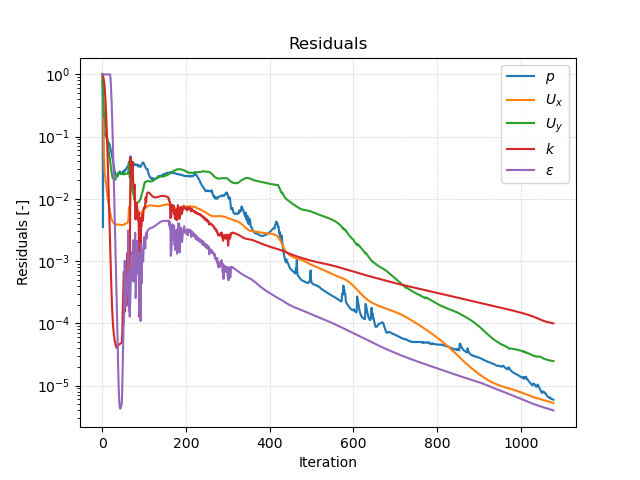
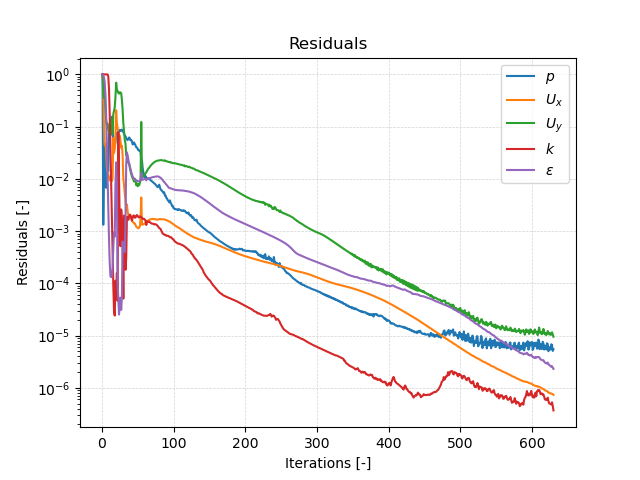
diffuser: solving updated

diff --git a/5_diffuser/2_solving.md b/5_diffuser/2_solving.md
@@ -10,60 +10,60 @@ nav_order: 2
 
 ## Starting the Solver
 
-In order to start the simulation, we have to execute corresponding the OpenFOAM application. As defined in the `controlDict`, the solver `simpleFoam` will be used, suitable for steady-state, incompressible, laminar or turbulent flows. This application can be started by typing the appropriate command in the terminal from within the case directory:
+
+In order to start the simulation, we have to execute the corresponding OpenFOAM application. As defined in the `controlDict`, the solver `incompressibleFluid` will be used, suitable for steady-state and transient, incompressible, laminar or turbulent flows. To start the solution process, execute the application `foamRun` in the terminal from within the case directory:
 
 ```bash
-simpleFoam
+foamRun
 ```
 
 The progress of the job is written to the terminal window. It tells the user the current iteration, the equations being solved, initial and final residuals for all fields and should look like follows:
 
 ```
-Time = 1023
+Time = 626s
 
-DILUPBiCG:  Solving for Ux, Initial residual = 6.82879e-06, Final residual = 2.36201e-08, No Iterations 3
-DILUPBiCG:  Solving for Uy, Initial residual = 3.19232e-05, Final residual = 2.11249e-06, No Iterations 2
-GAMG:  Solving for p, Initial residual = 1.09381e-05, Final residual = 8.00707e-07, No Iterations 2
-GAMG:  Solving for p, Initial residual = 8.18999e-07, Final residual = 8.18999e-07, No Iterations 0
-time step continuity errors : sum local = 1.09993e-08, global = -3.43088e-10, cumulative = 6.57178e-05
-DILUPBiCG:  Solving for epsilon, Initial residual = 5.30319e-06, Final residual = 2.07877e-07, No Iterations 1
-DILUPBiCG:  Solving for k, Initial residual = 0.000133256, Final residual = 7.49579e-06, No Iterations 1
-ExecutionTime = 56.32 s  ClockTime = 57 s
+DILUPBiCG:  Solving for Ux, Initial residual = 7.84788e-07, Final residual = 1.91123e-07, No Iterations 1
+DILUPBiCG:  Solving for Uy, Initial residual = 1.03153e-05, Final residual = 1.16383e-08, No Iterations 3
+GAMG:  Solving for p, Initial residual = 5.40664e-06, Final residual = 6.56563e-07, No Iterations 1
+time step continuity errors : sum local = 1.52435e-08, global = -3.94684e-10, cumulative = -3.20101e-05
+DILUPBiCG:  Solving for epsilon, Initial residual = 4.89335e-07, Final residual = 1.39649e-08, No Iterations 1
+DILUPBiCG:  Solving for k, Initial residual = 2.61077e-06, Final residual = 3.35381e-07, No Iterations 1
+ExecutionTime = 27.8877 s  ClockTime = 29 s
 ```
 
-This output at iteration 1023 tells us in summary:
-- The `DILUPBiCG` solver (short for bi-Conjugate Gradient solver with a simplified Diagonal-based Incomplete LU preconditioner) is used to solve the velocity components `Ux` and `Uy` in $$x$$- and $$y$$-direction. In this iteration, it takes 3 and 2 iterations to reach the specified residual criteria.
-- The `GAMG` multigrid solver is used for solving the pressure correction equation *twice* in the pressure-velocity coupling algorithm.
+This output at iteration 626 tells us in summary:
+- The `DILUPBiCG` solver (short for bi-Conjugate Gradient solver with a simplified Diagonal-based Incomplete LU preconditioner) is used to solve the velocity components `Ux` and `Uy` in $$x$$- and $$y$$-direction. In this iteration, it takes 1 and 3 iterations to reach the specified residual criteria.
+- The `GAMG` multigrid solver is used for solving the pressure correction equation in the pressure-velocity coupling algorithm.
 - The error of the conservation of mass is denoted as `continuity error`. Since its value is very small, conservation of mass is maintained.
-- The `DILUPBiCG` solver (short for bi-Conjugate Gradient solver with a simplified Diagonal-based Incomplete LU preconditioner) is finally used to solve the turbulence model transport equations for turbulent kinetic energy and dissipation rate.
-- The execution time for the simulation up until this iteration is roughly 57 seconds as indicated by the `ExecutionTime`.
+- The `DILUPBiCG` solver is also used to solve the turbulence model transport equations for turbulent kinetic energy and dissipation rate.
+- The execution time for the simulation up until this iteration is roughly 28 seconds as indicated by the `ExecutionTime`.
 
-After 1078 iterations, the simulation automatically stops as the residuals fall below the specified residual criteria in `fvSolution`.
+After 630 iterations, the simulation automatically stops as the residuals fall below the specified residual criteria in `fvSolution`.
 
 
 ## Monitoring the Simulation
 
-In order to monitor the simulation during its run and for postprocessing, two function objects are added at the bottom of the `controlDict`. These are used for e.g. writing out the residuals over the course of the simulation, perform certain post-processing tasks such as calculating the flow rate over a patch, compute maximum and average values of the flow field, compute forces and force coefficients on objects, compute derived fields such as heat transfer or shear stress rates, and generate images through cutPlanes or iso-surfaces.
-
-### Residuals
-
-By default, the residuals are only printed to the terminal window. In order to visualize the residuals to help judge convergence, a function object has been added to the `controlDict`. This function object of type `solverInfo` saves the initial residuals of the fields `(p U k epsilon)`, so pressure, velocity, turbulent kinetic energy, and turbulent dissipation rate, during runtime. Therefore, a new folder called `postProcessing` is automatically created inside the case folder. So in this example, the residuals are stored under the following path: `postProcessing/solverInfo/0/solverInfo.dat`.
+Three function objects are defined in the `functions` file in the `system` folder to monitor the run:
 
 ```
-functions
-{
-    solverInfo
-    {
-        type            solverInfo;
-        libs            (utilityFunctionObjects);
-        fields          (p U k epsilon);
-    }
+#includeFunc residuals
+(
+    name    = residuals,
+    fields  = (p U k epsilon)
+)
 
-...
-}
+#includeFunc yPlus
+
+#includeFunc wallShearStress
 ```
 
-Once the simulation has finished and all the time directories are written out, the data written by the function objects can be analyzed. This data can typically be plotted in a diagram using Microsoft Excel, Python, Gnuplot or any other tool. In order to quickly evaluate the monitored results from the function objects, a script is added to the diffuser case directory called `create_plots.py`. Executing it will automatically create the diagrams for residuals. By typing the following command in the terminal, the diagrams are created using Python and stored as png file:
+The `residuals` object writes the initial residuals of `(p U k epsilon)`, so pressure, velocity, turbulent kinetic energy and dissipation rate, to `postProcessing/residuals/0/residuals.dat` at every iteration.
+
+The `yPlus` object evaluates the dimensionless wall distance $$y^+$$ to assess how well the mesh resolves the turbulent boundary layer. It writes the minimum, maximum and average $$y^+$$ over all wall patches to `postProcessing` and adds a `yPlus` field to each results folder for visualization. Since `writeControl` is set to `writeTime`, this is done every time a result is written (here every 250 iterations, as set in `controlDict`).
+
+The `wallShearStress` object works the same way, writing per-wall min/max values and a `wallShearStress` field to each results folder, which will be used later for the comparison with experimental data.
+
+In order to quickly evaluate the residuals, a script is added to the diffuser case directory called `create_plots.py`. Executing it will automatically create the diagram and store them as png file:
 
 ```bash
 python3 create_plots.py
@@ -73,29 +73,4 @@ This creates the following diagram of the residuals on the $$y$$-axis plotted ag
 
 ![Diffuser case residuals](figures/diffuser-results-residuals.png)
 
-The plot shows that the residuals fall throughout the simulation to below $$10^{-4}$$ for all monitored variables. Since this is the specified residual criteria, the simulation stops automatically. We can assume this is a converged steady-state simulation.
-
-
-
-### Dimensionless Wall Distance
-
-Additionally, a second function object named `yPlus` in the `controlDict` evaluates the dimensionless wall distance $$y^+$$ in order to assess the mesh resolution within the turbulent boundary layer. It writes out the minimum, maximum, and average $$y^+$$ value for wall patches of type `wall` in the `postProcessing` directory and also create a new field in the results folders called `yPlus` with the dimensionless wall distance for every boundary face for visualization. The computation is performed whenever a new results folder is written out (e.g., every 250 iterations as defined in `controlDict`) as the entry `writeControl` is set to `writeTime`.
-
-The function object itself is configured as follows:
-
-```
-functions
-{
-...
-    
-    yPlus
-    {
-        type                yPlus;
-        libs                (fieldFunctionObjects);
-
-        writeControl        writeTime;
-    }
-}
-```
-
-When analysing the the results it is revealed that the average dimensionless wall distance for the final time step is in the range of 20 with a maximum value of 51. This indicates that the mesh is slightly to fine for using standard wall functions, which require a dimensionless wall distance of at least 30. Therefore, the first cell is located in the buffer region of the turbulent boundary layer leading to an incresed numerical error. Nevertheless, for now this mesh is sufficient for this seminar.
+The plot shows that the residuals fall throughout the simulation to below $$10^{-5}$$ for all monitored variables. Since this is the specified residual criteria, the simulation stops automatically. We can assume this is a converged steady-state simulation.

diff --git a/5_diffuser/1_preprocessing.md b/5_diffuser/1_preprocessing.md
@@ -69,68 +69,35 @@ OpenFOAM automatically detects a two-dimensional mesh and creates an additional 
 
 ## Mesh Quality
 
-Once the mesh has been created, it is always recommended to check the mesh statistics and quality. This can easily be done using the utility `checkMesh` from within the `diffuser` folder:
+After import, the mesh statistics and quality are checked with `checkMesh`, run from within the case directory:
 
 ```
 checkMesh
 ```
 
-The most relevant output is as follows:
+The relevant part of the output is:
 
 ```
-// * * * * * * * * * * * * * * * * * * * * * * * * * * * * * * * * * * * * * //
-Create time
-
-Create polyMesh for time = 0
-
-Time = 0s
-
 Mesh stats
     points:           62496
-    internal points:  0
     faces:            121877
-    internal faces:   59383
     cells:            30210
-    faces per cell:   6
     boundary patches: 5
-    point zones:      0
-    face zones:       0
-    cell zones:       0
 
 ...
 
 Checking geometry...
     Overall domain bounding box (-90 0 -1.51073) (61 4.7 1.51073)
-    Mesh has 2 geometric (non-empty/wedge) directions (1 1 0)
-    Mesh has 2 solution (non-empty) directions (1 1 0)
-    All edges aligned with or perpendicular to non-empty directions.
-    Max cell openness = 2.24507e-16 OK.
     Max aspect ratio = 4.50225 OK.
-    Minimum face area = 0.005. Maximum face area = 0.473362.  Face area magnitudes OK.
-    Min volume = 0.0151073. Max volume = 0.0718261.  Total volume = 1020.8.  Cell volumes OK.
     Mesh non-orthogonality Max: 10.0804 average: 2.10704
-    Non-orthogonality check OK.
-    Face pyramids OK.
     Max skewness = 0.167862 OK.
-    Coupled point location match (average 0) OK.
 
 Mesh OK.
-    
-End
 ```
 
-This gives us all relevant mesh statistics and quality criteria of the mesh:
+The mesh has 30210 cells across 5 boundary patches, and all quality metrics are well within their limits: a maximum aspect ratio of 4.50, a maximum non-orthogonality of 10.08, and a maximum skewness of 0.17. The closing `Mesh OK`. confirms that no critical issues were found, so we can proceed to the simulation.
 
-- The mesh consists of 30210 cells,
-- has 5 different boundary patches.
 
-As this is a block-structured mesh, the mesh quality in general is very good:
-
-- max cell aspect ratio of 4.50,
-- a maximum mesh non-orthogonality of 10.08, and
-- a max cell skewness of 0.17.
-
-The final output `Mesh OK.` indicates that no critical problems or errors were found during `checkMesh`. Therefore, we can continue with this mesh and proceed with the simulation.
 
 
 ## Physical Properties
@@ -300,9 +267,8 @@ boundaryField
 
 ## Simulation Control
 
-Settings related to the control of time (for transient simulations) or iterations (for steady-state simulations) and reading and writing of the solution data are read in from the `controlDict` file in the `system` folder.
+Time control, solver selection and output settings are read from the `controlDict` in the `system` directory:
 
-The key settings for this steady-state turbulent simulation include:
 ```
 solver          incompressibleFluid;
 
@@ -321,41 +287,25 @@ writeControl    timeStep;
 writeInterval   250;
 ```
 
-In this tutorial case, the solver `incompressibleFluid` is used, a pressure-based solver for incompressible, steady-state or transient, laminar or turbulent single-phase flows. The simulation starts at time `0`. Therefore we set the `startFrom` keyword to `startTime` and then specify the `startTime` keyword to be `0`. The simulation runs for 1500 iterations, which is why the `endTime` entry is set to `1500`. Since time step size has no physical meaning in steady-state simulations, the time step size `deltaT` is set to 1, which functions as an iteration counter rather than physical time. Finally, results are written out every 250 iterations configured via the `writeInterval` keyword.
+As in the previous tutorials, this is a steady-state run with the `incompressibleFluid` solver, so `deltaT` acts purely as an iteration counter. The case starts at time 0 (`startTime`), advances for 1500 iterations (`endTime`), and writes a result every 250 (`writeInterval`).
 
 
 
 ## Discretization
 
-The user specifies the choice of finite volume discretisation schemes in the `fvSchemes` dictionary in the `system` directory. Here, we will only cover the most relevant settings.
-
-### Temporal derivatives
-
-The discretization of the temporal derivatives $$(\partial / \partial t)$$ is defined within the `ddtSchemes` keyword. Since this is a steady-state simulation, the entry here is set to `steadyState`, i.e. the temporal derivative is set to zero.
+The finite-volume discretisation schemes are set in the `fvSchemes` dictionary in the `system` directory. Since this is a steady-state run, the temporal term is switched off (`steadyState`), gradients use a cell-limited central scheme to suppress overshoots, and the convective terms for momentum and turbulent scalars use a bounded second-order upwind scheme:
 
 ```
 ddtSchemes
 {
     default             steadyState;
 }
-```
 
-### Gradient terms
-
-The discretization of the gradient terms is defined within the `gradSchemes` keyword. All gradient schemes are discretized equally with a second order **central differencing scheme** with a cell-based gradient limiter to avoid excessively large gradients. Hence, the `default` discretization is set to `cellLimited Gauss linear 1.0`.
-
-```
 gradSchemes
 {
     default             cellLimited Gauss linear 1.0;
 }
-```
 
-### Convective terms
-
-The discretization of the convective transport terms is defined within the `divSchemes` keyword. Here, `div(phi,U)` refers to the discretization of the convective transport of momentum with `phi` being the (volumetric) flux and `U` the variable transported by the flux. In this case, the **second order upwind scheme** is employed called `Gauss linearUpwindV` combined with the default gradient scheme defined under `gradSchemes`. Since a turbulence model is employed, the convective transport of the turbulent quantities `k` and `epsilon` in their respective transport equations is also discretized with the **second order upwind scheme** combined with the default gradient scheme.
-
-```
 divSchemes
 {
     div(phi,U)          bounded Gauss linearUpwindV grad(U);
@@ -374,12 +324,9 @@ divSchemes
 
 ## Linear Solver Settings
 
-The specification of the linear equation solvers, tolerances and other algorithm controls is made in the `fvSolution` dictionary in the `system` directory. These settings are as follows for the diffuser case.
+The linear equation solvers, tolerances and coupling controls are set in the `fvSolution` dictionary in the `system` directory.
 
-### Solver settings
-
-The pressure field in the pressure-velocity coupling is solved using a **Geometric agglomerated Algebraic MultiGrid** (short: GAMG) solver with a Gauss-Seidel solver for smoothing during the multi-grid steps. The absolute solver tolerance for each iteration is set to $$10^{-6}$$ with a relative tolerance of $$0.1$$: 
-
+The pressure equation uses a **Geometric agglomerated Algebraic MultiGrid** (short: GAMG) solver with a Gauss-Seidel smoother. The momentum and turbulence equations have asymmetric matrices and are solved with a **Preconditioned bi-Conjugate Gradient** solver with a simplified **Diagonal-based Incomplete LU** preconditioner (PBiCG solver with DILU preconditioner). All solvers use an absolute tolerance of $$10^{-6}$$ and a relative tolerance of $$0.1$$:
 
 ```
 solvers
@@ -391,16 +338,6 @@ solvers
         tolerance       1e-06;
         relTol          0.1;
     }
-... 
-}
-```
-
-The momentum equation and the transport equations for the turbulent properties are solved using a **Preconditioned bi-Conjugate Gradient** solver with a simplified **Diagonal-based Incomplete LU** preconditioner (PBiCG solver with DILU preconditioner). The absolute tolerance for solving is $$10^{-6}$$ with a relative tolerance of $$0.1$$ with at least one iteration solved:
-
-```
-solvers
-{
-...
 
     "(U|k|epsilon)"
     {
@@ -414,11 +351,10 @@ solvers
 ```
 
 
+
 ### Pressure-velocity coupling
 
-Pressure-based, steady-state simulations in OpenFOAM rely on the SIMPLE pressure-velocity coupling algorithm. Additional options for this algorithm are available within the `SIMPLE` entry in `fvSolution`. In this tutorial, the consistent formulation of the algorithm is used called SIMPLEC with the keyword `consistent`.
-
-The simulation will automatically be stopped as soon as the residual criteria are met specified in the `residualControl` sub-dictionary. In this case, these thresholds are set to $$10^{-5}$$ for pressure and velocity.
+As a pressure-based steady-state case, the SIMPLE pressure-velocity coupling is used in its consistent (SIMPLEC) variant via `consistent yes`. The run stops once the residuals fall below $$10^{-5}$$ for pressure and velocity (`residualControl`). Because SIMPLEC is used, pressure needs no relaxation; velocity and the turbulent quantities are relaxed by a factor of 0.8 (equation under-relaxation):
 
 ```
 SIMPLE
@@ -431,13 +367,7 @@ SIMPLE
         U               1e-5;
     }
 }
-```
 
-### Relaxation factors
-
-Steady state simultions are highly unstable if no relaxation factors are used. Since the SIMPLEC algorithm is employed, no relaxation factor for pressure has to be set. However, velocity, turbulent kinetic energy and turbulent dissipation rate are relaxed with a factor of 0.8 using equation underrelaxation.
-
-```
 relaxationFactors
 {
     equations
